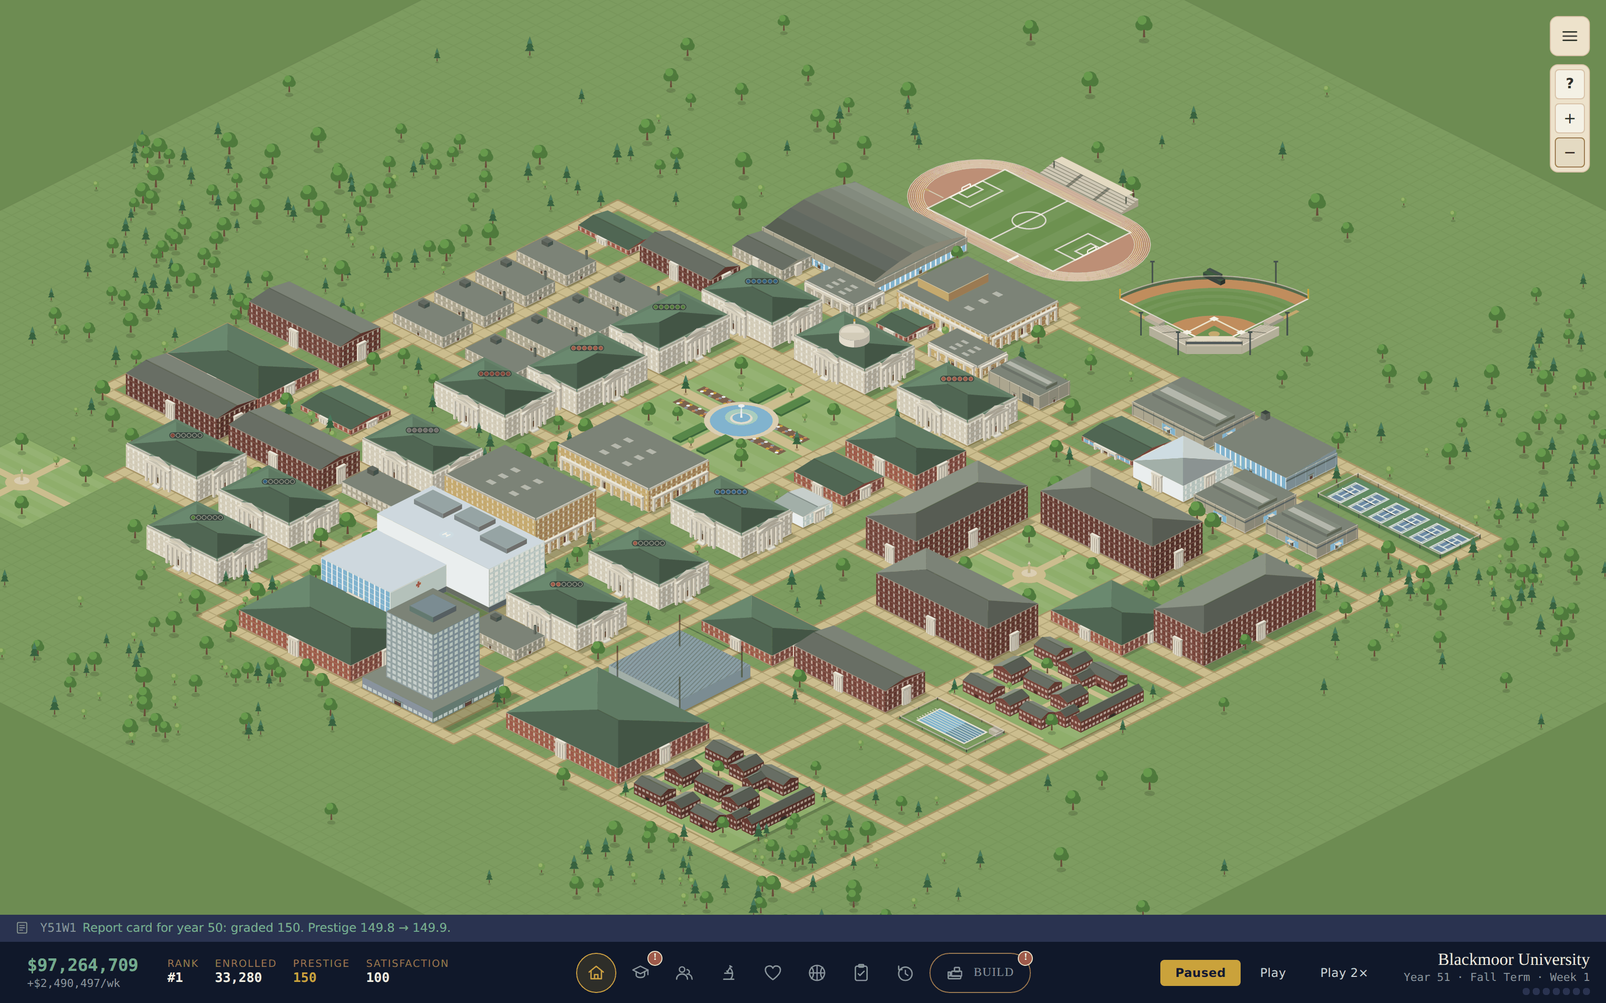
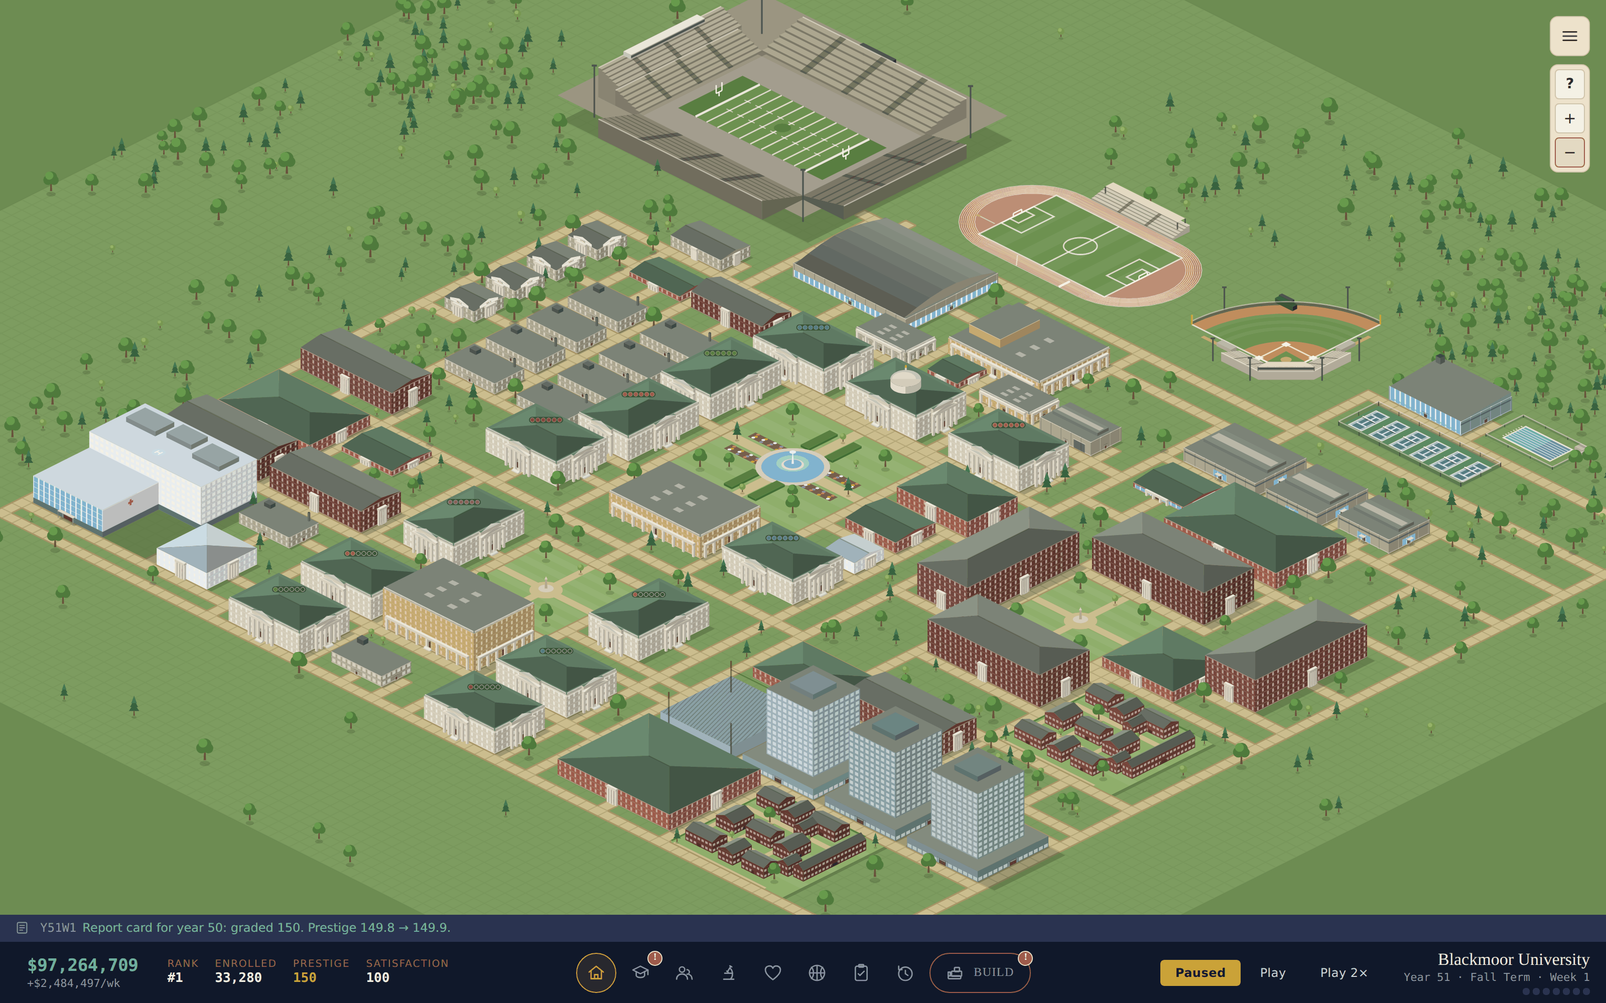
The campus laid out as precincts with every asset, and the stadium in the renders
The football stadium never appeared in a campus render because no scripted
strategy ever unlocks it: it is revealed only when football goes varsity,
and no club of the sim's ever petitions for it. The chapter houses an event
grants were never sited either. tools/scenario.ts gains --build-all, which
stands every placeable Buildable the run did not build, marked done and
dropped on the first clear tiles for the layout to re-site. It is the one
override that is not cosmetic, and says so: a campus to photograph with
everything on it, not a state the game produced.

The plan in tools/layout.ts is redrawn as precincts. The Second Quad, which
hung off the south-west corner on its own, is now the South Quad on the
Grand Quad's own axis below the research library, ringed by the last six
halls and closed by the old library, with the computing centre behind. The
stadium anchors the north-west corner with the field, the diamond and the
arena east of it; the natatorium, the outdoor pool and the tennis courts
take the north-east corner past the diamond. The recreation chain, the
grocery and the market hall make a town-centre strip behind the union. The
second residential court and the medical campus, with the clinic beside
the hospital, sit to the south-west; Greek Row — the chapter houses, which
no plan can name because their ids are minted at fire time — takes lots in
order down the west lane. The five campus renders are regenerated from a
[…]

diff --git a/unischool/tools/layout.ts b/unischool/tools/layout.ts
@@ -18,9 +18,12 @@
 //   npm run shot -- /tmp/out.json /tmp/campus.png --zoom=-2
 //
 // The plan below is a PRECINCT plan, the way a real campus is read: an
-// academic core round the Grand Quad, a research court to its west, the
-// union to its east with the residential quad beyond, a medical campus to
-// the south, and the venues along the north edge.
+// academic core round the Grand Quad with a second academic court, the
+// South Quad, on the same axis below it; a science court to the west with
+// Greek Row on the lane past it; the union to the east with the
+// residential quarter beyond; a second residential court and the medical
+// campus to the south-west; and the venues along the north edge, the
+// stadium anchoring the north-west corner.
 //
 // THE RULES, checked rather than trusted:
 //   - every placement lands on clear tiles (campusMap.ts's own
@@ -60,8 +63,8 @@ interface Site { id: string; row: number; col: number; rotated?: boolean }
 // ---------------------------------------------------------------------
 const PLAN: Site[] = [
   // --- The academic core: the Grand Quad and the halls around it. The
-  // academic halls are the chain in techData.ts (HALL-01 .. HALL-12), placed
-  // in build order round the quad, then down the west and south walks. ---
+  // academic halls are the chain in techData.ts (HALL-01 .. HALL-12): the
+  // first six round the Grand Quad, the last six round the South Quad. ---
   { id: 'QUAD-T2', row: 57, col: 57 },                     // 13x13, the heart of the place
   { id: 'BLDG-GENSTUDIES', row: 50, col: 60 },             // Founders Hall, at the head of the quad
   { id: 'HALL-01', row: 50, col: 51 },
@@ -77,15 +80,15 @@ const PLAN: Site[] = [
   // Behind the north row: the arts, the first dining hall, and the concert
   // hall closing the axis behind Founders Hall.
   { id: 'ARTS-PAC', row: 38, col: 60 },
-  { id: 'LAB-ECON', row: 45, col: 47 },
+  { id: 'LAB-ECON', row: 45, col: 36 },                  // west end of the row, clear of the arena's door
   { id: 'LAB-HIST', row: 45, col: 54 },
   { id: 'DINING-01', row: 45, col: 61 },
   { id: 'ART-GALLERY', row: 45, col: 66 },
   { id: 'LAB-FILM', row: 45, col: 72 },
 
-  // --- West: each hall's labs behind it on a small grid of lanes, the
-  // founding dorm and the early dining hall on the north walk, and a
-  // residential corner past the labs. ---
+  // --- West: the science court — each hall's labs behind it on a small
+  // grid of lanes — with the founding dorm and the early dining hall on the
+  // north walk. ---
   { id: 'LAB-BIOL', row: 56, col: 44 },
   { id: 'LAB-CHMY', row: 60, col: 44 },
   { id: 'LAB-MECH', row: 64, col: 44 },
@@ -96,40 +99,40 @@ const PLAN: Site[] = [
   { id: 'LAB-CHEM', row: 68, col: 37 },
   { id: 'DORM-01', row: 50, col: 43 },
   { id: 'DININGHALL-02', row: 50, col: 37 },
+
+  // --- South-west: the second residential court — two columns of halls
+  // with their dining commons — and the medical campus below it. ---
   { id: 'DORM-02', row: 74, col: 30 },
   { id: 'DININGHALL-06', row: 80, col: 30 },
-  { id: 'DININGHALL-03', row: 80, col: 41 },
-  { id: 'HALL-07', row: 81, col: 49 },
-  { id: 'DORM-04', row: 87, col: 31 },
-  { id: 'DORM-05', row: 87, col: 41 },
-  { id: 'LAB-COMP', row: 87, col: 51 },
-  // The last three halls of the chain and the second quad: a south-west
-  // court off the west walk, below the residential corner.
-  { id: 'HALL-10', row: 93, col: 47 },
-  { id: 'HALL-11', row: 100, col: 47 },
-  { id: 'HALL-12', row: 93, col: 38 },
-  { id: 'QUAD-S2', row: 100, col: 30 },
+  { id: 'DININGHALL-03', row: 80, col: 40 },
+  { id: 'DORM-04', row: 87, col: 30 },
+  { id: 'DORM-05', row: 87, col: 40 },
+  { id: 'HLTH-T3', row: 93, col: 30 },                     // the hospital, 11x11
+  { id: 'LAB-NEUR', row: 93, col: 42 },
+  { id: 'HLTH-T2', row: 99, col: 42 },                     // the clinic, beside the hospital
 
-  // --- South: the old library and the medical campus, with a tower and a
-  // market hall at its foot. ---
-  { id: 'LIB-T1', row: 81, col: 58 },
-  { id: 'HALL-08', row: 81, col: 71 },
-  { id: 'HLTH-T3', row: 89, col: 59 },                     // the hospital, 11x11
-  { id: 'HALL-09', row: 89, col: 71 },
-  { id: 'LAB-NEUR', row: 95, col: 71 },
-  { id: 'DININGHALL-07', row: 101, col: 59 },
-  { id: 'DORM-12', row: 101, col: 71 },
+  // --- South: the South Quad on the Grand Quad's own axis, ringed by the
+  // last six halls and closed by the old library, with the computing
+  // centre behind it and the market hall as the terminus of the axis. ---
+  { id: 'QUAD-S2', row: 83, col: 59 },                     // 9x9, below the research library
+  { id: 'HALL-07', row: 83, col: 52, rotated: true },      // west side, fronting the quad
+  { id: 'HALL-08', row: 83, col: 70, rotated: true },      // east side
+  { id: 'HALL-09', row: 94, col: 51 },
+  { id: 'LIB-T1', row: 93, col: 59 },                      // closes the south side
+  { id: 'HALL-10', row: 94, col: 70 },
+  { id: 'HALL-11', row: 101, col: 51 },
+  { id: 'LAB-COMP', row: 102, col: 60 },
+  { id: 'HALL-12', row: 101, col: 70 },
 
-  // --- East: the athletics complex and natatorium by the venues; the
-  // grocery, clinic, gym and rec centre on the lanes behind the union; the
-  // Campus Quad with a dining hall on it; villages and a court of towers. ---
+  // --- East: the recreation chain on the first lane behind the union, the
+  // grocery and the market hall on the second — the campus's town centre —
+  // then the Campus Quad with a dining hall on it, villages, and a court of
+  // four towers. ---
   { id: 'REC-T2', row: 39, col: 82 },
-  { id: 'ATH-NATATORIUM', row: 39, col: 90 },
-  { id: 'TENNIS-COURTS', row: 39, col: 99 },
+  { id: 'GYM', row: 39, col: 90 },
+  { id: 'REC-T1', row: 39, col: 96 },
   { id: 'GROCERY-01', row: 45, col: 82 },
-  { id: 'HLTH-T2', row: 45, col: 88 },
-  { id: 'GYM', row: 45, col: 94 },
-  { id: 'REC-T1', row: 45, col: 100 },
+  { id: 'DININGHALL-07', row: 45, col: 88 },               // the market hall, 11x7
   { id: 'QUAD-T1', row: 60, col: 88 },
   { id: 'DORM-06', row: 59, col: 82, rotated: true },
   { id: 'DORM-08', row: 54, col: 88 },
@@ -139,29 +142,45 @@ const PLAN: Site[] = [
   { id: 'DORM-10', row: 70, col: 100 },
   { id: 'DININGHALL-04', row: 81, col: 82 },
   { id: 'DORM-03', row: 81, col: 90 },
-  { id: 'POOL', row: 81, col: 100 },
   { id: 'DORM-13', row: 88, col: 82 },
   { id: 'DORM-14', row: 88, col: 90 },
   { id: 'DORM-15', row: 88, col: 98 },
+  { id: 'DORM-12', row: 88, col: 106 },
   { id: 'DININGHALL-08', row: 96, col: 82 },
   { id: 'DORM-11', row: 96, col: 94 },
 
-  // --- North campus: the venues. ---
-  { id: 'ATH-STADIUM', row: 28, col: 23 },
-  { id: 'ATH-FIELD', row: 23, col: 47 },                   // 22x13 since the assets review
-  { id: 'ATH-ARENA', row: 36, col: 47 },
-  { id: 'ATH-DIAMOND', row: 24, col: 70 },
+  // --- North campus: the venues, largest to the west. The stadium is the
+  // biggest thing on the map and anchors the north-west corner; the field
+  // and the diamond run east of it along the same edge, and the arena
+  // sits between the field and the arts. ---
+  { id: 'ATH-STADIUM', row: 21, col: 18 },                 // 24x20
+  { id: 'ATH-FIELD', row: 21, col: 45 },                   // 22x13
+  { id: 'ATH-DIAMOND', row: 21, col: 69 },                 // 14x14
+  { id: 'ATH-ARENA', row: 36, col: 45 },                   // 11x9
+  // The aquatic centre and the courts, in the north-east corner past the
+  // diamond: the natatorium and the outdoor pool side by side, the tennis
+  // courts along the lane below them.
+  { id: 'ATH-NATATORIUM', row: 23, col: 86 },
+  { id: 'POOL', row: 23, col: 94 },
+  { id: 'TENNIS-COURTS', row: 29, col: 86 },
 ];
 
-// Where anything the plan does not name goes — a chapter house granted by
-// an event carries an id minted at fire time (see eventData.ts's
-// chapterHouseId), so no plan can list it. Greek Row: north of the
-// residence halls, scanned row by row for the first clear spot.
+// GREEK ROW. A chapter house granted by an event carries an id minted at
+// fire time (see eventData.ts's chapterHouseId), so no plan can list one by
+// name; instead the houses take these slots in order — a row of small
+// houses down the west lane, between the science court and the campus's
+// edge, each on its own lot. More houses than slots go to the overflow.
+const GREEK_ROW: Array<{ row: number; col: number }> = [
+  { row: 50, col: 31 }, { row: 54, col: 31 }, { row: 58, col: 31 }, { row: 62, col: 31 }, { row: 66, col: 31 },
+];
+
+// Where anything else the plan does not name goes: a strip past the east
+// walk, scanned row by row for the first clear spot.
 // How much of the open ground inside the campus gets a tree (see the
 // planting pass at the end). Sparse: a lawn with trees on it, not a wood.
 const INTERIOR_TREE_DENSITY = 0.07;
 
-const OVERFLOW = { row: 84, col: 108, h: 24, w: 10 };
+const OVERFLOW = { row: 38, col: 115, h: 70, w: 8 };
 
 // ---------------------------------------------------------------------
 // THE WALKS. Straight runs between two tiles, inclusive; one tile wide.
@@ -183,43 +202,57 @@ const WALKS: TileCoord[] = [
   // The Grand Quad's ring; the north walk along the halls' fronts; the back
   // lane behind them, with connectors through the gaps.
   ...ring(56, 56, 70, 70),
-  ...run(55, 36, 55, 80),
-  ...run(48, 36, 48, 80),
+  ...run(55, 29, 55, 80),
+  ...run(48, 29, 48, 80),
   ...run(49, 50, 54, 50), ...run(49, 59, 54, 59), ...run(49, 68, 54, 68), ...run(46, 77, 55, 77),
-  // The west walk, the south walk, the east walk.
-  ...run(56, 56, 108, 56),
+  // The west walk down to the South Quad, the south walk, the east walk.
+  ...run(56, 56, 79, 56),
   ...run(79, 29, 79, 80),
-  ...run(38, 80, 108, 80),
-  // West: the science court's grid of lanes, and the residential corner.
-  ...run(48, 36, 71, 36), ...run(48, 42, 71, 42), ...run(55, 49, 79, 49),
+  ...run(38, 80, 106, 80),
+  // West: the science court's grid of lanes.
+  ...run(48, 36, 71, 36), ...run(48, 42, 71, 42), ...run(55, 49, 99, 49),
   ...run(59, 36, 59, 49), ...run(63, 36, 63, 55), ...run(67, 36, 67, 49), ...run(71, 36, 71, 55),
-  ...run(71, 39, 86, 39), ...run(79, 29, 91, 29), ...run(86, 29, 86, 56), ...run(91, 29, 91, 56),
-  ...run(79, 46, 86, 46), ...run(86, 40, 91, 40), ...run(86, 50, 91, 50),
+  // South-west: the west edge lane, the residential court's lanes, and the
+  // medical campus below.
+  ...run(48, 29, 106, 29),
+  ...run(86, 29, 86, 49), ...run(91, 29, 91, 49), ...run(79, 39, 91, 39),
+  ...run(104, 29, 104, 49), ...run(97, 41, 97, 49),
   // The union's lanes, and the lane between the two libraries' successors.
   ...run(62, 71, 62, 80), ...run(62, 77, 79, 77), ...run(67, 71, 67, 77), ...run(71, 71, 71, 77),
   ...run(71, 68, 79, 68),
-  // South: the medical spine and its cross lanes.
-  ...run(80, 70, 108, 70), ...run(88, 57, 88, 79), ...run(100, 57, 100, 80), ...run(108, 57, 108, 80),
-  ...run(80, 67, 88, 67), ...run(88, 78, 94, 78), ...run(94, 71, 94, 80), ...run(94, 76, 100, 76),
-  ...run(100, 78, 108, 78),
+  // South: the axis from the research library to the South Quad, the
+  // quad's ring, the cross lanes between its rows of halls, and the lanes
+  // down to the market hall.
+  ...run(79, 63, 82, 63),
+  ...ring(82, 58, 92, 68),
+  ...run(90, 49, 90, 58), ...run(90, 68, 90, 79),
+  ...run(92, 49, 92, 79), ...run(99, 49, 99, 79), ...run(106, 29, 106, 79),
+  ...run(92, 58, 106, 58), ...run(92, 68, 106, 68), ...run(79, 77, 106, 77), ...run(99, 49, 106, 49),
   // East: the Campus Quad's ring, and the lanes that tie the blocks into
   // loops off the east walk.
   ...ring(59, 87, 69, 97),
-  ...run(44, 81, 44, 111), ...run(50, 81, 50, 111),
-  ...run(44, 87, 59, 87), ...run(44, 93, 50, 93), ...run(44, 99, 50, 99), ...run(44, 105, 50, 105),
-  ...run(38, 89, 44, 89), ...run(38, 97, 44, 97),
-  ...run(50, 99, 59, 99), ...run(59, 97, 59, 99),
-  ...run(65, 105, 65, 111), ...run(68, 98, 68, 111),
+  ...run(44, 81, 44, 113), ...run(52, 81, 52, 113),
+  ...run(44, 87, 59, 87), ...run(44, 105, 52, 105),
+  ...run(38, 89, 44, 89), ...run(38, 95, 44, 95), ...run(38, 101, 44, 101),
+  ...run(52, 99, 59, 99), ...run(59, 97, 59, 99),
+  ...run(65, 105, 65, 113), ...run(68, 98, 68, 113),
   ...run(69, 87, 80, 87), ...run(70, 81, 70, 87), ...run(69, 98, 69, 99), ...run(69, 99, 80, 99),
   ...run(75, 87, 75, 99),
-  ...run(80, 81, 80, 111), ...run(85, 89, 85, 111), ...run(87, 81, 87, 111), ...run(95, 81, 95, 111),
-  ...run(106, 81, 106, 111),
+  ...run(80, 81, 80, 113), ...run(85, 89, 85, 113), ...run(87, 81, 87, 113), ...run(95, 81, 95, 113),
+  ...run(106, 81, 106, 113),
   ...run(80, 89, 95, 89), ...run(80, 99, 87, 99), ...run(80, 107, 87, 107),
   ...run(87, 97, 95, 97), ...run(87, 105, 95, 105), ...run(95, 93, 106, 93),
-  ...run(38, 111, 106, 111),
-  // North campus: between the venues, tied back to the back lane.
-  ...run(35, 49, 35, 69), ...run(35, 59, 48, 59), ...run(35, 69, 48, 69),
-  ...run(38, 70, 38, 111),
+  ...run(38, 113, 106, 113),
+  // North campus: the lane between the stadium and the field, the lane
+  // between the field and the diamond, and the walk along the venues' feet
+  // tied back to the back lane.
+  ...run(20, 43, 47, 43), ...run(20, 68, 35, 68),
+  ...run(35, 43, 35, 84), ...run(35, 59, 48, 59), ...run(35, 69, 48, 69),
+  ...run(38, 70, 38, 113),
+  // The north-east corner: the lane past the diamond, and the lanes round
+  // the aquatic centre and the courts.
+  ...run(22, 84, 38, 84), ...run(28, 84, 28, 113), ...run(34, 84, 34, 113), ...run(22, 93, 28, 93), ...run(22, 101, 28, 101),
+  ...run(22, 113, 38, 113),
 ];
 
 // ---------------------------------------------------------------------
@@ -229,9 +262,10 @@ const WALKS: TileCoord[] = [
 // centred on the grid, which is where the map opens centred: the plan was
 // drawn with Founders Hall at the grid's centre, but the campus that grew
 // round it leans east and south of there.
-const OFFSET = { row: -1, col: -7 };
+const OFFSET = { row: 1, col: 0 };
 for (const site_ of PLAN) { site_.row += OFFSET.row; site_.col += OFFSET.col; }
 for (const t of WALKS) { t.row += OFFSET.row; t.col += OFFSET.col; }
+for (const g of GREEK_ROW) { g.row += OFFSET.row; g.col += OFFSET.col; }
 
 const [inPath, outPath, ...flags] = process.argv.slice(2);
 if (!inPath || !outPath) {
@@ -266,13 +300,23 @@ for (const site_ of PLAN) {
   if (!wasPlaced.has(site_.id)) continue; // not built in this run; nothing to site
   site(site_.id, site_.row, site_.col, site_.rotated ?? false);
 }
-// Anything the run built that the plan never named.
+// Anything the run built that the plan never named: chapter houses take
+// Greek Row's slots in order, and anything else goes to the overflow block.
 const planned = new Set(PLAN.map((p) => p.id));
-for (const id of wasPlaced) {
+let greekSlot = 0;
+for (const id of [...wasPlaced].sort()) {
   if (planned.has(id)) continue;
   const node = byId.get(id)!;
   const fp = footprintOf(node);
   let found = false;
+  if (node.chapterHouse && greekSlot < GREEK_ROW.length) {
+    const slot = GREEK_ROW[greekSlot++];
+    if (footprintIsClear(placements, slot.row, slot.col, fp)) {
+      placements[id] = placementFor(slot.row, slot.col, fp);
+      console.log(`${node.name} on Greek Row at ${slot.row},${slot.col}`);
+      continue;
+    }
+  }
   for (let r = OVERFLOW.row; r + fp.h <= OVERFLOW.row + OVERFLOW.h && !found; r++) {
     for (let c = OVERFLOW.col; c + fp.w <= OVERFLOW.col + OVERFLOW.w; c++) {
       if (footprintIsClear(placements, r, c, fp)) { placements[id] = placementFor(r, c, fp); found = true; break; }

diff --git a/unischool/tools/scenario.ts b/unischool/tools/scenario.ts
@@ -15,9 +15,11 @@
 //   npm run scenario -- --strategy "Balanced builder" --year 12 --modal milestone
 //   npm run scenario -- --strategy Completionist --year 22 --vernacular gothic \
 //     --name Blackmoor --clear-modal /tmp/gothic.json    # a campus to photograph
+//   npm run scenario -- --strategy Completionist --year 50 --build-all \
+//     --clear-modal /tmp/all.json           # every placeable asset standing
 //
 // Flags: --strategy <name> --year N --modal <interrupt type> --seed N
-//        --vernacular <v> --name <school> --clear-modal --list
+//        --vernacular <v> --name <school> --clear-modal --build-all --list
 //
 // The written file is a real save (persistence.ts's SavePayload at the
 // current SAVE_VERSION), built through the reducer rather than assembled
@@ -32,6 +34,7 @@ import { play, STRATEGIES, DEFAULT_SIM_SEED, type Strategy } from '../sim/balanc
 import { SAVE_VERSION } from '../src/state/persistence';
 import { totalEnrolled } from '../src/state/types';
 import type { GameState, Vernacular } from '../src/state/types';
+import { firstFreeSpot, footprintOf, isPlaceableKind, placementFor } from '../src/state/campusMap';
 import { SCENARIOS, findScenario, atModal, type Scenario } from './scenarios';
 
 // ---------------------------------------------------------------------
@@ -40,7 +43,7 @@ import { SCENARIOS, findScenario, atModal, type Scenario } from './scenarios';
 // (told apart by the `.json`, see below).
 // ---------------------------------------------------------------------
 const VALUE_FLAGS = ['strategy', 'year', 'modal', 'seed', 'vernacular', 'name', 'out'];
-const BOOL_FLAGS = ['list', 'clear-modal', 'help'];
+const BOOL_FLAGS = ['list', 'clear-modal', 'build-all', 'help'];
 
 function parseArgs(argv: string[]): { flags: Record<string, string>; positional: string[] } {
   const flags: Record<string, string> = {};
@@ -171,6 +174,27 @@ if (flags['clear-modal']) {
   state.events.activeDemand = null;
 }
 
+// THE ONE OVERRIDE THAT IS NOT COSMETIC, and flagged as such: --build-all
+// stands every placeable Buildable in the catalogue that the run did not
+// build — the football stadium, which no scripted strategy ever unlocks
+// because no club of its petitions for varsity football; the chapter
+// houses an event granted and the strategy never sited; whatever the run
+// had not reached. Each is marked done and dropped on the first clear
+// tiles (tools/layout.ts re-sites everything anyway). The result is a
+// campus with every asset on it to photograph, and NOT a state the game
+// produced: nothing about it is a measurement.
+let stood = 0;
+if (flags['build-all']) {
+  for (const node of state.tech) {
+    if (!isPlaceableKind(node) || node.status === 'done' || node.status === 'developing') continue;
+    const spot = firstFreeSpot(state.placements, footprintOf(node));
+    if (!spot) { console.error(`--build-all: no room for ${node.id}`); continue; }
+    node.status = 'done';
+    state.placements[node.id] = placementFor(spot.row, spot.col, footprintOf(node));
+    stood += 1;
+  }
+}
+
 writeFileSync(outPath, JSON.stringify({ version: SAVE_VERSION, savedAt: Date.now(), state }));
 
 const placed = Object.keys(state.placements ?? {}).length;
@@ -179,6 +203,6 @@ console.log(
   `  ${recipe.name}: ${strategy.name}, seed ${seed}\n` +
   `  year ${state.clock.year} week ${state.clock.week}, prestige ${state.self.reputation.toFixed(0)}, ` +
   `${totalEnrolled(state.students).toLocaleString()} enrolled, $${Math.round(state.finance.cash).toLocaleString()} cash\n` +
-  `  ${placed} placed buildings, vernacular ${state.self.vernacular}, ` +
+  `  ${placed} placed buildings${stood ? ` (${stood} stood by --build-all)` : ''}, vernacular ${state.self.vernacular}, ` +
   `modal ${state.pendingInterrupt?.type ?? 'none'}`,
 );

diff --git a/unischool/tools/README.md b/unischool/tools/README.md
@@ -59,16 +59,25 @@ npm run shot -- node_modules/.tmp/out.json docs/images/campus.png --zoom=-1 --sc
 Placement is visual-only (see `campusMap.ts`), so moving the buildings changes
 nothing the simulation computed: the school in the file is still the one the
 run produced. The plan is a list of anchors and the walks a list of straight
-runs, and the rules are checked rather than trusted — every footprint on clear
+runs — precincts, the way a real campus is read: the Grand Quad and the
+South Quad on one axis, the science court and Greek Row to the west, the
+union and the residential quarter to the east, a second residential court
+and the medical campus to the south-west, and the venues along the north
+edge with the stadium anchoring the corner — and the rules are checked
+rather than trusted — every footprint on clear
 tiles by the reducer's own `footprintIsClear`; both doors the camera can see
 (south face, east face) clear of other buildings and on a path; walks one tile
 wide and one connected network; no dead end that is not a doorstep. A doorstep
 pass adds the shortest run from any unserved door to the nearest path and a
 join pass ties up islands, so the checks hold whatever the run happened to
-build; anything the plan does not name (an event's chapter house) goes in an
-overflow block. `--ascii` prints the plan as a tile map, which is how it was
-drawn. That is what `docs/images/campus.png` is — run through `pngquant`
-afterwards, which takes a flat-colour render like this one down to a third of
+build; a chapter house, whose id an event mints, takes the next lot on Greek Row,
+and anything else the plan does not name goes in an overflow block. `--ascii` prints the plan as a tile map, which is how it was
+drawn. That is what `docs/images/campus.png` is — a year-50 Completionist run
+with `--build-all`, so every placeable asset stands (the football stadium
+never unlocks under a scripted strategy, because no club of its ever
+petitions for varsity football, and the chapter houses an event grants are
+never sited; the flag stands them anyway, and says so, since a campus to
+photograph wants everything on it) — run through `pngquant` afterwards, which takes a flat-colour render like this one down to a third of
 its size with nothing to see for it. The same campus in the other four sets
 is beside it — `campus-gothic.png`, `campus-classical.png`,
 `campus-mission.png` and `campus-modern.png` — which is the honest comparison

diff --git a/README.md b/README.md
@@ -1,6 +1,6 @@
 # UniSchool
 
-![The campus map in year 51 of a university: the Grand Quad and its halls, the science court, the union and residential quad, the medical campus and the venues](docs/images/campus.png)
+![The campus map in year 51 of a university: the Grand Quad and the South Quad with their halls, the science court and Greek Row, the union and the residential quarter, the medical campus, and the venues along the north edge under the stadium](docs/images/campus.png)
 
 A university management simulation about building an institution from a small
 college into a major university.
